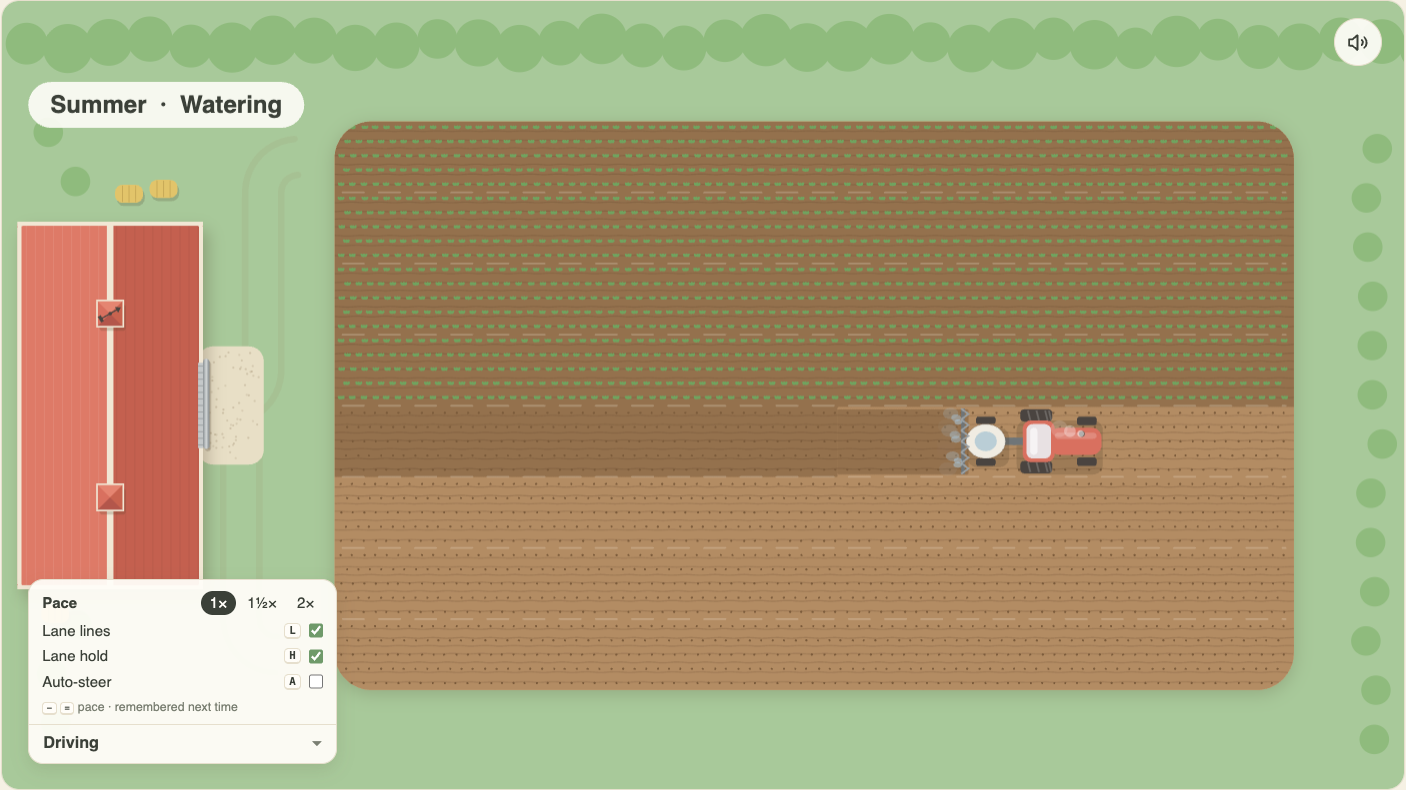
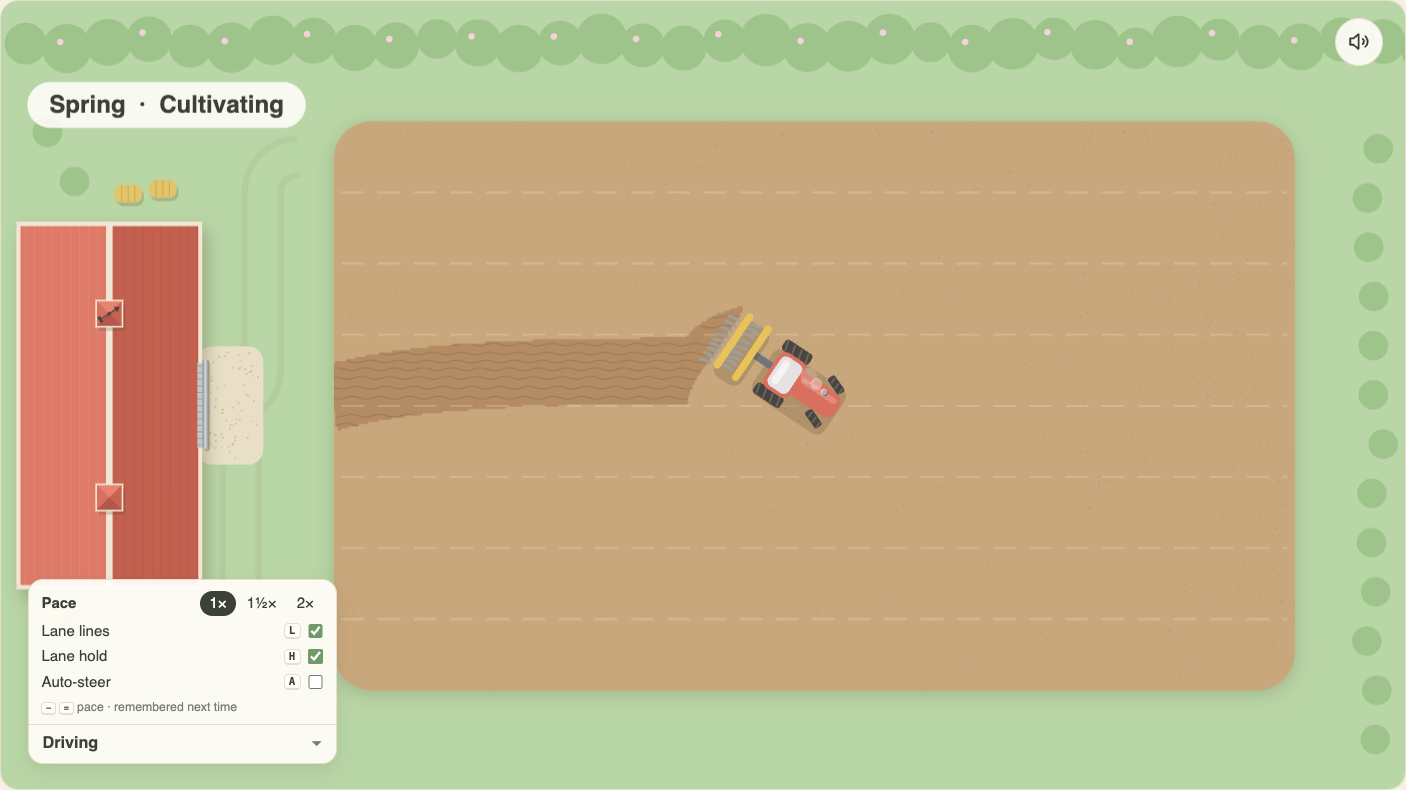
feat: steer the front wheels and roll tyres with the machine's real speed (#2)
* feat: steer the front wheels and roll tyres with the machine's real speed

Front wheels (the combine's rear wheels) turn about their hubs with the
steering, eased to a gentle lock and back straight when released. Every
tread, implement wheels included, now rolls by the distance the machine
actually moves: forward when driving, backward when reversing, still when
stopped, in the barn and on the turntable. Refresh the working screenshot.

* no-mistakes(document): List tyre tests in README development section

diff --git a/src/draw/machines.ts b/src/draw/machines.ts
@@ -1,17 +1,25 @@
 // Every machine exactly as drawn in the approved mockup: top-down, facing +x,
 // origin at the tractor's rear axle.
 import type { Rig } from '../game/types';
+import { STRAIGHT, type Wheels, treadOffset } from '../game/wheels';
 import { type Ctx, P, rnd, rr } from './palette';
 
 function shadow(ctx: Ctx, x: number, y: number, w: number, h: number) { ctx.fillStyle = P.shadow; rr(ctx, x + 3, y + 5, w, h, 8); ctx.fill(); }
 
-function tractor(ctx: Ctx, t: number, colour: string = P.red) {
+/** A tyre centred on its hub (cx, cy), turned by `angle`, its tread rolled along by `roll`. */
+function tyre(ctx: Ctx, cx: number, cy: number, len: number, wid: number, r: number, roll: number, angle = 0) {
+  ctx.save(); ctx.translate(cx, cy); ctx.rotate(angle);
+  ctx.fillStyle = P.tyre; rr(ctx, -len / 2, -wid / 2, len, wid, r); ctx.fill(); ctx.clip();
+  ctx.strokeStyle = 'rgba(255,255,255,0.18)'; ctx.lineWidth = 1.5;                              // tread, rolling with the ground
+  const n = Math.max(1, Math.round(len / 6)), h = wid / 2 - 1;
+  for (let i = 0; i < n; i++) { const x = -len / 2 + treadOffset(i * len / n + roll, len); ctx.beginPath(); ctx.moveTo(x - 1, -h); ctx.lineTo(x + 1, h); ctx.stroke(); }
+  ctx.restore();
+}
+
+function tractor(ctx: Ctx, t: number, wh: Wheels, colour: string = P.red) {
   shadow(ctx, -26, -22, 70, 44);
-  ctx.fillStyle = P.tyre;
-  rr(ctx, -20, -26, 26, 10, 3); ctx.fill(); rr(ctx, -20, 16, 26, 10, 3); ctx.fill();           // rear tyres
-  rr(ctx, 26, -20, 16, 7, 2); ctx.fill(); rr(ctx, 26, 13, 16, 7, 2); ctx.fill();               // front tyres
-  ctx.strokeStyle = 'rgba(255,255,255,0.18)'; ctx.lineWidth = 1.5;                              // tread, rolling
-  for (let i = 0; i < 4; i++) { const ox = -18 + ((i * 7 + t * 0.04) % 24); [-21, 21].forEach((yy) => { ctx.beginPath(); ctx.moveTo(ox, yy - 4); ctx.lineTo(ox + 2, yy + 4); ctx.stroke(); }); }
+  tyre(ctx, -7, -21, 26, 10, 3, wh.roll); tyre(ctx, -7, 21, 26, 10, 3, wh.roll);               // rear tyres
+  tyre(ctx, 34, -16.5, 16, 7, 2, wh.roll, wh.steer); tyre(ctx, 34, 16.5, 16, 7, 2, wh.roll, wh.steer); // front tyres, steering
   ctx.fillStyle = colour; rr(ctx, 4, -11, 42, 22, 8); ctx.fill();                                // bonnet
   ctx.fillStyle = 'rgba(255,255,255,0.18)'; rr(ctx, 8, -7, 34, 5, 3); ctx.fill();
   ctx.fillStyle = colour; rr(ctx, -18, -17, 26, 34, 7); ctx.fill();                              // cab base
@@ -33,7 +41,7 @@ function cultivator(ctx: Ctx, t: number, w: number) {
   }
 }
 
-function drill(ctx: Ctx, _t: number, w: number, units: 'hopper' | 'precision' | 'few') {
+function drill(ctx: Ctx, w: number, units: 'hopper' | 'precision' | 'few', roll: number) {
   ctx.fillStyle = P.steelDark; ctx.fillRect(-36, -3, 12, 6);
   shadow(ctx, -66, -w / 2, 32, w);
   if (units === 'hopper') {
@@ -48,15 +56,15 @@ function drill(ctx: Ctx, _t: number, w: number, units: 'hopper' | 'precision' | 
       const y = -w / 2 + (i + 0.5) * w / n;
       ctx.fillStyle = P.red; rr(ctx, -58, y - 6, 16, 12, 4); ctx.fill();
       ctx.fillStyle = '#efe6cf'; ctx.beginPath(); ctx.arc(-50, y, 3.2, 0, Math.PI * 2); ctx.fill();
-      ctx.fillStyle = P.tyre; rr(ctx, -66, y - 3, 8, 6, 2); ctx.fill();
+      tyre(ctx, -62, y, 8, 6, 2, roll);
     }
   }
 }
 
-function sprayer(ctx: Ctx, t: number, w: number, working: boolean) {
+function sprayer(ctx: Ctx, t: number, w: number, working: boolean, roll: number) {
   ctx.fillStyle = P.steelDark; ctx.fillRect(-36, -3, 12, 6);
   shadow(ctx, -66, -16, 34, 32);
-  ctx.fillStyle = P.tyre; rr(ctx, -56, -20, 16, 6, 2); ctx.fill(); rr(ctx, -56, 14, 16, 6, 2); ctx.fill();
+  tyre(ctx, -48, -17, 16, 6, 2, roll); tyre(ctx, -48, 17, 16, 6, 2, roll);
   ctx.fillStyle = P.tank; ctx.beginPath(); ctx.ellipse(-48, 0, 16, 14, 0, 0, Math.PI * 2); ctx.fill();
   ctx.strokeStyle = 'rgba(0,0,0,0.12)'; ctx.lineWidth = 1; ctx.stroke();
   ctx.fillStyle = 'rgba(120,170,200,0.45)'; ctx.beginPath(); ctx.ellipse(-48, 0, 9, 8, 0, 0, Math.PI * 2); ctx.fill();
@@ -68,9 +76,10 @@ function sprayer(ctx: Ctx, t: number, w: number, working: boolean) {
   }
 }
 
-function combine(ctx: Ctx, t: number, w: number) {
+function combine(ctx: Ctx, t: number, w: number, wh: Wheels) {
   shadow(ctx, -50, -24, 110, 48);
-  ctx.fillStyle = P.tyre; rr(ctx, 4, -30, 26, 10, 3); ctx.fill(); rr(ctx, 4, 20, 26, 10, 3); ctx.fill(); rr(ctx, -46, -24, 16, 7, 2); ctx.fill(); rr(ctx, -46, 17, 16, 7, 2); ctx.fill();
+  tyre(ctx, 17, -25, 26, 10, 3, wh.roll); tyre(ctx, 17, 25, 26, 10, 3, wh.roll);               // drive wheels
+  tyre(ctx, -38, -20.5, 16, 7, 2, wh.roll, -wh.steer); tyre(ctx, -38, 20.5, 16, 7, 2, wh.roll, -wh.steer); // a combine steers with its rear wheels
   ctx.fillStyle = '#7fb069'; rr(ctx, -50, -20, 84, 40, 9); ctx.fill();                         // body (green combine)
   ctx.fillStyle = '#6a9c58'; rr(ctx, -40, -16, 34, 32, 6); ctx.fill();                          // grain tank
   ctx.fillStyle = P.wheat; rr(ctx, -37, -13, 28, 26, 5); ctx.fill();
@@ -82,10 +91,10 @@ function combine(ctx: Ctx, t: number, w: number) {
   for (let i = 0; i < 4; i++) { const x = 40 + ((i / 4 + ph) % 1) * 14; ctx.fillRect(x, -w / 2 + 3, 2.5, w - 6); }
 }
 
-function rootHarvester(ctx: Ctx, t: number, w: number) {
+function rootHarvester(ctx: Ctx, t: number, w: number, roll: number) {
   ctx.fillStyle = P.steelDark; ctx.fillRect(-36, -3, 12, 6);
   shadow(ctx, -86, -w / 2, 54, w);
-  ctx.fillStyle = P.tyre; rr(ctx, -74, -w / 2 - 4, 20, 7, 2); ctx.fill(); rr(ctx, -74, w / 2 - 3, 20, 7, 2); ctx.fill();
+  tyre(ctx, -64, -w / 2 - 0.5, 20, 7, 2, roll); tyre(ctx, -64, w / 2 + 0.5, 20, 7, 2, roll);
   ctx.fillStyle = P.red; rr(ctx, -84, -w / 2 + 2, 46, w - 4, 7); ctx.fill();                  // body
   ctx.fillStyle = '#7a5a3a'; rr(ctx, -80, -w / 2 + 6, 22, w - 12, 4); ctx.fill();              // bunker with carrots
   ctx.fillStyle = P.carrot; for (let i = 0; i < 18; i++) { ctx.beginPath(); ctx.ellipse(-77 + rnd(i) * 16, -w / 2 + 9 + rnd(i + 9) * (w - 18), 3, 1.6, rnd(i + 3) * 3, 0, Math.PI * 2); ctx.fill(); }
@@ -94,27 +103,28 @@ function rootHarvester(ctx: Ctx, t: number, w: number) {
   ctx.fillStyle = P.yellow; rr(ctx, -36, w / 2 - 14, 14, 12, 3); ctx.fill();                   // offset lifter share
 }
 
-function trailer(ctx: Ctx, _t: number, _w: number, load: number) {
+function trailer(ctx: Ctx, load: number, roll: number) {
   ctx.fillStyle = P.steelDark; ctx.fillRect(-40, -3, 16, 6);
   shadow(ctx, -96, -22, 58, 44);
-  ctx.fillStyle = P.tyre; rr(ctx, -74, -26, 18, 7, 2); ctx.fill(); rr(ctx, -74, 19, 18, 7, 2); ctx.fill();
+  tyre(ctx, -65, -22.5, 18, 7, 2, roll); tyre(ctx, -65, 22.5, 18, 7, 2, roll);
   ctx.fillStyle = P.redDark; rr(ctx, -96, -22, 58, 44, 6); ctx.fill();
   ctx.fillStyle = '#c99a6a'; rr(ctx, -92, -18, 50, 36, 4); ctx.fill();
   for (let i = 0; i < Math.round(load * 10); i++) { ctx.fillStyle = P.pumpkin; ctx.beginPath(); ctx.ellipse(-86 + (i % 5) * 9.5, -10 + Math.floor(i / 5) * 14, 5, 4.5, 0, 0, Math.PI * 2); ctx.fill(); ctx.fillStyle = P.leafDark; ctx.fillRect(-86 + (i % 5) * 9.5 - 0.8, -10 + Math.floor(i / 5) * 14 - 5, 1.6, 2.4); }
 }
 
 /**
- * Draw a whole rig. `working` turns on the sprayer's mist; `load` fills the pumpkin trailer.
+ * Draw a whole rig. `working` turns on the sprayer's mist; `load` fills the pumpkin trailer;
+ * `wh` turns the steered wheels and rolls every tread (a parked machine's stand straight and still).
  */
-export function drawRig(ctx: Ctx, rig: Rig, t: number, w: number, load = 0, working = false): void {
+export function drawRig(ctx: Ctx, rig: Rig, t: number, w: number, load = 0, working = false, wh: Wheels = STRAIGHT): void {
   switch (rig) {
-    case 'cultivate': cultivator(ctx, t, w); tractor(ctx, t); break;
-    case 'drill-hopper': drill(ctx, t, w, 'hopper'); tractor(ctx, t); break;
-    case 'drill-precision': drill(ctx, t, w, 'precision'); tractor(ctx, t); break;
-    case 'drill-few': drill(ctx, t, w, 'few'); tractor(ctx, t); break;
-    case 'spray': sprayer(ctx, t, w, working); tractor(ctx, t); break;
-    case 'combine': combine(ctx, t, w); break;
-    case 'roots': rootHarvester(ctx, t, w); tractor(ctx, t); break;
-    case 'trailer': trailer(ctx, t, w, load); tractor(ctx, t); break;
+    case 'cultivate': cultivator(ctx, t, w); tractor(ctx, t, wh); break;
+    case 'drill-hopper': drill(ctx, w, 'hopper', wh.roll); tractor(ctx, t, wh); break;
+    case 'drill-precision': drill(ctx, w, 'precision', wh.roll); tractor(ctx, t, wh); break;
+    case 'drill-few': drill(ctx, w, 'few', wh.roll); tractor(ctx, t, wh); break;
+    case 'spray': sprayer(ctx, t, w, working, wh.roll); tractor(ctx, t, wh); break;
+    case 'combine': combine(ctx, t, w, wh); break;
+    case 'roots': rootHarvester(ctx, t, w, wh.roll); tractor(ctx, t, wh); break;
+    case 'trailer': trailer(ctx, load, wh.roll); tractor(ctx, t, wh); break;
   }
 }

diff --git a/src/main.ts b/src/main.ts
@@ -14,6 +14,7 @@ import { SETTINGS_KEY, type Settings, decodeSettings, encodeSettings } from './g
 import type { Crop, Job, Rig } from './game/types';
 import { type Control, controlFor } from './game/input';
 import { MAX_SPEED, type Vehicle, insideBarn, step } from './game/vehicle';
+import { STRAIGHT, type Wheels, rolled, turnWheels } from './game/wheels';
 import { BarnMenu } from './ui/barnMenu';
 import { DrivingCard, TOGGLES, type Toggle } from './ui/drivingCard';
 
@@ -41,6 +42,7 @@ const g = {
   job: 'cultivate' as Job,
   lastJob: 'cultivate' as Job,
   v: { x: DOOR_X + 130, y: DOOR_Y, a: 0, speed: 0 } as Vehicle,
+  wheels: STRAIGHT as Wheels,
   mode: 'drive' as Mode,
   modeT: 0,
   from: null as Pose | null,
@@ -182,7 +184,7 @@ function startParking(): void {
 
 function openMenu(): void {
   g.mode = 'menu'; g.modeT = 0; g.pendingPick = false; g.outing = 0;
-  g.v = { x: parkX(g.rig), y: DOOR_Y, a: 0, speed: 0 };
+  g.v = { x: parkX(g.rig), y: DOOR_Y, a: 0, speed: 0 }; g.wheels = STRAIGHT;
   refreshMenu(); menu.open(); card.tuck(true);
 }
 
@@ -195,6 +197,7 @@ function pick(): void {
   g.mode = 'leaving'; g.modeT = 0;
   g.from = { x: parkX(m.rig), y: DOOR_Y, a: 0 };
   g.to = { x: DOOR_X + 24 - EXT[m.rig][0] * SCALE, y: DOOR_Y, a: 0 };
+  g.v = { ...g.from, speed: 0 };
   held.clear(); save();
   stage.focus({ preventScroll: true });
 }
@@ -270,7 +273,8 @@ function update(dt: number): { label: string; working: boolean } {
   g.growAcc += dt;
   if (g.growAcc >= 250) { grow(g.field, g.growAcc, info.season); g.growAcc = 0; }
 
-  let label = 'In the barn', working = false;
+  let label = 'In the barn', working = false, steer = 0;
+  const was = { x: g.v.x, y: g.v.y }, wasMode = g.mode;
   const item = g.items.find((m) => m.job === g.job && m.rig === g.rig) ?? machinesFor(g.crop).find((m) => m.rig === g.rig);
   if (g.mode === 'drive') {
     const c = { up: held.has('up'), down: held.has('down'), left: held.has('left'), right: held.has('right') };
@@ -278,6 +282,7 @@ function update(dt: number): { label: string; working: boolean } {
       const a = autoSteer(g.v, g.pilot ?? pilotFrom(g.v));
       g.pilot = a.pilot; c.left = a.left; c.right = a.right;
     } else g.pilot = null;
+    steer = (c.right ? 1 : 0) - (c.left ? 1 : 0);
     // a faster pace runs the machine's own clock faster: same turning circle, sooner
     const ds = s * PACES[settings.pace];
     g.v = step(g.v, c, ds);
@@ -316,6 +321,10 @@ function update(dt: number): { label: string; working: boolean } {
     if (g.modeT >= dur) { g.mode = 'drive'; g.modeT = 0; g.still = 0; }
   }
 
+  // the tyres follow the machine itself: they roll only while it moves, backwards when it reverses
+  const rolling = g.mode === wasMode && (g.mode === 'drive' || g.mode === 'parking' || g.mode === 'leaving');
+  g.wheels = turnWheels(g.wheels, steer, rolling ? rolled(was, g.v, g.v.a) / SCALE : 0, s);
+
   g.car = easeCarousel(g.car, dt);
   const near = Math.hypot(g.v.x - DOOR_X, g.v.y - DOOR_Y) < 210;
   const doorOpen = g.mode === 'parking' || g.mode === 'leaving' || (g.mode === 'drive' && near);
@@ -333,9 +342,9 @@ function update(dt: number): { label: string; working: boolean } {
   return { label, working };
 }
 
-function drawMachine(c: Ctx, rig: Rig, p: Pose, t: number, working: boolean): void {
+function drawMachine(c: Ctx, rig: Rig, p: Pose, t: number, working: boolean, wheels: Wheels = STRAIGHT): void {
   c.save(); c.translate(p.x, p.y); c.rotate(p.a); c.scale(SCALE, SCALE);
-  drawRig(c, rig, t, RIG_W, Math.min(1, g.outing / 1500), working); c.restore();
+  drawRig(c, rig, t, RIG_W, Math.min(1, g.outing / 1500), working, wheels); c.restore();
 }
 
 function render(label: string, working: boolean): void {
@@ -365,8 +374,8 @@ function render(label: string, working: boolean): void {
   if (g.mode === 'spin') {
     const mid = rigMid(g.rig);
     ctx.save(); ctx.translate(parkX(g.rig) + mid, DOOR_Y); ctx.rotate(Math.PI + g.spin * Math.PI); ctx.translate(-mid, 0); ctx.scale(SCALE, SCALE);
-    drawRig(ctx, g.rig, t, RIG_W, Math.min(1, g.outing / 1500), false); ctx.restore();
-  } else if (g.mode !== 'menu') drawMachine(ctx, g.rig, g.v, t, working);
+    drawRig(ctx, g.rig, t, RIG_W, Math.min(1, g.outing / 1500), false, g.wheels); ctx.restore();
+  } else if (g.mode !== 'menu') drawMachine(ctx, g.rig, g.v, t, working, g.wheels);
 
   barnRoof(ctx, g.roof, g.door, t);
   const sea = seasonAt(g.elapsed).season;

diff --git a/tests/wheels.test.ts b/tests/wheels.test.ts
@@ -1,0 +1,63 @@
+import { describe, expect, it } from 'vitest';
+import { MAX_SPEED, drive } from '../src/game/vehicle';
+import { MAX_STEER, STRAIGHT, rolled, steerToward, treadOffset, turnWheels } from '../src/game/wheels';
+
+const none = { up: false, down: false, left: false, right: false };
+
+describe('steered wheels', () => {
+  it('turn with the steering, eased and held to a gentle lock', () => {
+    const first = steerToward(0, 1, 1 / 60);
+    expect(first).toBeGreaterThan(0);
+    expect(first).toBeLessThan(MAX_STEER);
+    let a = 0;
+    for (let i = 0; i < 120; i++) a = steerToward(a, 1, 1 / 60);
+    expect(a).toBeCloseTo(MAX_STEER);
+    expect(MAX_STEER).toBeLessThan(0.5);
+    for (let i = 0; i < 120; i++) a = steerToward(a, -1, 1 / 60);
+    expect(a).toBeCloseTo(-MAX_STEER);
+  });
+
+  it('come back straight once the steering is let go', () => {
+    let a = MAX_STEER;
+    for (let i = 0; i < 60; i++) a = steerToward(a, 0, 1 / 60);
+    expect(a).toBe(0);
+  });
+
+  it('never overshoot the lock, even on a long frame', () => {
+    expect(steerToward(0, 1, 5)).toBe(MAX_STEER);
+    expect(steerToward(0, -3, 5)).toBe(-MAX_STEER);
+  });
+});
+
+describe('tread', () => {
+  it('rolls forward driving forward, backward reversing, and not at all standing still', () => {
+    const at = { x: 100, y: 100, a: 0.6, speed: 0 };
+    const fwd = drive({ ...at, speed: MAX_SPEED }, { ...none, up: true }, 1 / 60);
+    const back = drive({ ...at, speed: -20 }, { ...none, down: true }, 1 / 60);
+    const still = drive(at, none, 1 / 60);
+    expect(rolled(at, fwd, fwd.a)).toBeGreaterThan(0);
+    expect(rolled(at, back, back.a)).toBeLessThan(0);
+    expect(rolled(at, still, still.a)).toBe(0);
+  });
+
+  it('keeps the distance rolled and stops when the machine does', () => {
+    let w = STRAIGHT;
+    w = turnWheels(w, 0, 5, 1 / 60);
+    w = turnWheels(w, 0, 5, 1 / 60);
+    expect(w.roll).toBe(10);
+    const parked = turnWheels(w, 0, 0, 1 / 60);
+    expect(parked.roll).toBe(10);
+    expect(turnWheels(w, 0, -4, 1 / 60).roll).toBe(6);
+  });
+
+  it('wraps the pattern into one period in either direction', () => {
+    expect(treadOffset(7, 6)).toBeCloseTo(1);
+    expect(treadOffset(-1, 6)).toBeCloseTo(5);
+    expect(treadOffset(-12, 6)).toBeCloseTo(0);
+    for (const r of [-100.5, -3, 0, 2.5, 99]) {
+      const o = treadOffset(r, 16);
+      expect(o).toBeGreaterThanOrEqual(0);
+      expect(o).toBeLessThan(16);
+    }
+  });
+});

diff --git a/src/game/wheels.ts b/src/game/wheels.ts
@@ -1,0 +1,36 @@
+// What the tyres show: how far the steered wheels are turned and how far the tread has rolled.
+
+export interface Wheels {
+  /** Steered-wheel angle in radians; positive turns toward the machine's right. */
+  steer: number;
+  /** Tread rolled so far, in drawing units; grows driving forward, shrinks reversing. */
+  roll: number;
+}
+
+export const STRAIGHT: Wheels = { steer: 0, roll: 0 };
+
+// A gentle lock, reached (and released) in about a fifth of a second.
+export const MAX_STEER = 0.38;
+const STEER_RATE = 2;
+
+/** Ease the steered wheels toward `input` (-1 left, 0 straight, +1 right) over dt seconds. */
+export function steerToward(angle: number, input: number, dt: number): number {
+  const target = Math.max(-1, Math.min(1, input)) * MAX_STEER, step = STEER_RATE * dt;
+  return angle + Math.max(-step, Math.min(step, target - angle));
+}
+
+/** Signed distance moved along the heading `a`: positive driving forward, negative reversing. */
+export function rolled(from: { x: number; y: number }, to: { x: number; y: number }, a: number): number {
+  return (to.x - from.x) * Math.cos(a) + (to.y - from.y) * Math.sin(a);
+}
+
+/** Turn the wheels for one frame: `input` steering, `distance` rolled in drawing units. */
+export function turnWheels(w: Wheels, input: number, distance: number, dt: number): Wheels {
+  return { steer: steerToward(w.steer, input, dt), roll: w.roll + distance };
+}
+
+/** Where a tread pattern repeating every `period` sits after rolling `roll`: always in [0, period). */
+export function treadOffset(roll: number, period: number): number {
+  const o = roll % period;
+  return o < 0 ? o + period : o;
+}

diff --git a/README.md b/README.md
@@ -71,7 +71,7 @@ Lane lines and lane hold start on and auto-steer starts off. Furrow remembers th
 ## Development
 
 ```sh
-npm test           # Vitest: season clock, soil and growth, barn rules, carousel, arrow keys, driving, pace and guides, layout, save/load
+npm test           # Vitest: season clock, soil and growth, barn rules, carousel, arrow keys, driving, tyres, pace and guides, layout, save/load
 npm run lint       # ESLint
 npm run typecheck  # TypeScript
 ```
